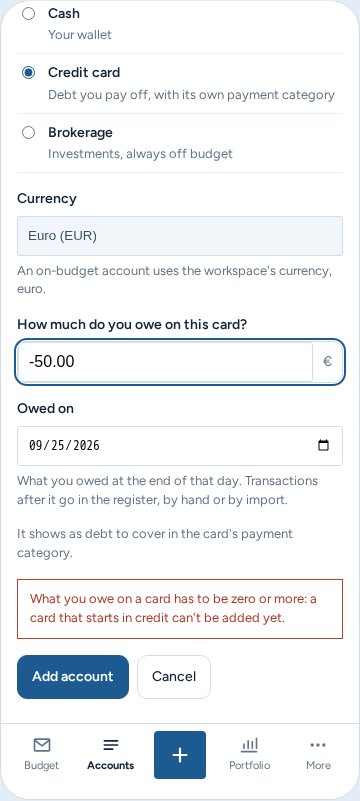
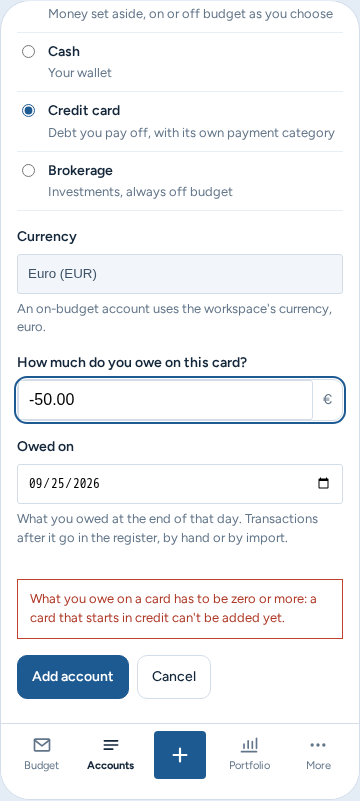
docs: retake the review screenshots after the UX review
Refs #705

Changed region(s): [[0.0306, 0.0, 0.9778, 0.7179], [0.4278, 0.0, 0.9167, 0.0312], [0.0611, 0.0, 0.0917, 0.0312]]

diff --git a/docs/ux/review/705/README.md b/docs/ux/review/705/README.md
@@ -4,16 +4,16 @@ Temporary: the last commit of this pull request removes this folder before the m
 
 | State | Files | Mockup | Issue |
 | --- | --- | --- | --- |
-| The phone's row menu: "Close account" behind "…" | `01-close-menu-phone-*` | `account-register.html` (phone, Prepaid card's "…") | #705 |
-| Close asks first (a card: its payment category stays in September and leaves the budget from October; the phone: a cash account) | `01-close-confirm-desktop-*`, `01-close-confirm-phone-*` | `settings-first-run.html` (Workspace → Accounts, Gas card's "Close account"), `account-register.html` (phone, Prepaid card, "…" then "Close account") | #705 |
-| Close refused: a card, the rule first, then only the facts that break it (desktop: available below zero and an assignment in a later month; phone: a balance and money set aside) | `02-close-refused-card-desktop-*`, `02-close-refused-card-phone-*` | `settings-first-run.html` (Store card), `account-register.html` (phone, Visa) | #705 |
-| Closed accounts under "Closed", the budget as plain text, with "Reopen", after closing one | `03-closed-accounts-desktop-*`, `03-closed-accounts-phone-*` | same | #705 |
-| A closed account's register, read only with "Reopen" its one action, a row opened read only (desktop) | `04-closed-register-desktop-*`, `04-closed-register-phone-*` | `account-register.html` (sidebar or phone list: Old post office account) | #705 |
+| The phone's row menu: "Close account" behind "⋯" ("Actions for Prepaid card", the budget's group menu style) | `01-close-menu-phone-*` | `account-register.html` (phone, Prepaid card's "⋯") | #705 |
+| Close asks first (a card: its payment category stays in September and leaves the budget from October; the phone: a cash account) | `01-close-confirm-desktop-*`, `01-close-confirm-phone-*` | `settings-first-run.html` (Workspace → Accounts, Gas card's "Close account"), `account-register.html` (phone, Prepaid card, "⋯" then "Close account") | #705 |
+| Close refused: a card, the rule first ("… it has to be empty, today and later, and its payment category has to have €0.00 available, …"), then only the facts that break it (desktop: available below zero and an assignment in a later month; phone: a balance and money set aside) | `02-close-refused-card-desktop-*`, `02-close-refused-card-phone-*` | `settings-first-run.html` (Store card), `account-register.html` (phone, Visa) | #705 |
+| Closed accounts under "Closed" ("closed on Sep 12", no year in the current one), the budget as plain text, with "Reopen", after closing one; "Close account" is a quiet link, red only on the confirmation's button | `03-closed-accounts-desktop-*`, `03-closed-accounts-phone-*` | same | #705 |
+| A closed account's register, read only with "Reopen" its one action, a row opened read only (desktop: "Transfer · To Checking") | `04-closed-register-desktop-*`, `04-closed-register-phone-*` | `account-register.html` (sidebar or phone list: Old post office account) | #705 |
 | The same account reopened | `05-reopened-desktop-*`, `05-reopened-phone-*` | `account-register.html` | #705 |
 | Add account: a brokerage account in another currency, with its cash balance and "Balance on" | `06-add-account-other-currency-desktop-*`, `06-add-account-other-currency-phone-*` | `account-register.html` ("+ Add account", phone "+ Add") | #717, #778 |
-| Add account: a negative starting balance (desktop), a card in credit refused (phone) | `07-add-account-overdraft-desktop-*`, `07-add-account-card-in-credit-phone-*` | `account-register.html` (phone: Credit card, −50.00, Add account) | #778 |
-| Add account: a credit card's debt and "Owed on" | `08-add-account-card-desktop-*`, `08-add-account-card-phone-*` | `account-register.html` | #778 |
-| A register in US dollars: the currency marker, and a transfer with no account to pick (amount and memo unavailable, "Add as an outflow") | `09-other-currency-transfer-desktop-*`, `09-other-currency-transfer-phone-*` | `account-register.html` (Dollar savings, New transaction, Transfer) | #717 |
+| Add account: a negative starting balance (desktop), a card in credit refused, with no debt line beside the refusal (phone) | `07-add-account-overdraft-desktop-*`, `07-add-account-card-in-credit-phone-*` | `account-register.html` (phone: Credit card, −50.00, Add account) | #778 |
+| Add account: a credit card's debt (250.00) and "Owed on" | `08-add-account-card-desktop-*`, `08-add-account-card-phone-*` | `account-register.html` | #778 |
+| A register in US dollars: the currency marker, and a transfer with no account to pick (no amount or memo, "Enter as an outflow") | `09-other-currency-transfer-desktop-*`, `09-other-currency-transfer-phone-*` | `account-register.html` (Dollar savings, New transaction, Transfer) | #717 |
 | Checking's transfer list names the account left out for its currency ("Dollar savings isn't listed: …") | `10-transfer-list-hint-desktop-*`, `10-transfer-list-hint-phone-*` | `account-register.html` (New transaction, Transfer) | #717 |
 | A card paid beyond what was set aside, still owing: red part on its bar, "To do" line naming both parts | `11-card-paid-beyond-desktop-*`, `11-card-paid-beyond-phone-*` | `budget-month.html` (Travel card) | #726 |
 | The same card owing nothing: empty track and the red part | `12-card-owes-nothing-desktop-*`, `12-card-owes-nothing-phone-*` | `budget-month.html` (strip: "Owes nothing") | #726 |
